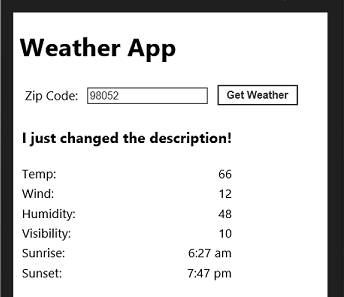
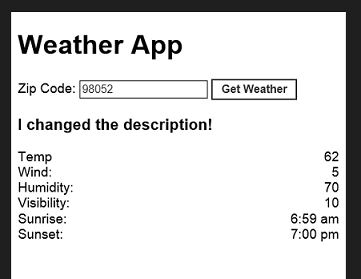
more fixes

diff --git a/getting-started/get-started-first-mobile-app.md b/getting-started/get-started-first-mobile-app.md
@@ -14,9 +14,6 @@
    ms.date="09/10/2015"
    ms.author="normesta"/>
 
-
-# **NOTE:** This article is depreciated. Current articles can be found in the [Articles folder](/articles/).
-
 # Get started with Visual Studio Tools for Apache Cordova
 
 You can use Visual Studio Tools for Apache Cordova to build apps that run on iOS, Android, and Windows devices and share nearly 100% of your code ([learn more](https://www.visualstudio.com/explore/cordova-vs)).
@@ -165,52 +162,73 @@ First, we'll add the [JQuery](https://jquery.com/) NuGet package to your project
 
 **index.html** is the first page that appears when users run your app. So we'll add our HTML to that file. Of course, this the default setting and you can change that at any time in the [configuration designer](#settings).
 
+1. Open the **index.html** file and add this style to the ```<head>``` of the page.
+  ```
+  <style type="text/css">
+      body {
+          font: 1em Sans-Serif;
+      }
+
+      .flex {
+          display: -webkit-box;
+          display: flex;
+      }
+
+          .flex > div:nth-child(2) {
+              -webkit-flex-grow: 1;
+              flex-grow: 1;
+              text-align: right;
+          }
+  </style>
+  ```
 1. Open the **index.html** file and remove this line.
 
-	```html
-	  <p>Hello, your application is ready!</p>
-	```
+   ```html
+  	 <p>Hello, your application is ready!</p>
+   ```
 
-2. Add this HTML to the ```<body>``` of the page to give users a way to search for the weather see the results in a table.
+2. Add this HTML to the ```<body>``` of the page to give users a way to search for the weather see the results.
 
 	```html
-		<h1 id="app-title">Weather App</h1>
-		 <table cellpadding="5" class="appfont">
-		<tr>
-		    <td>Zip Code: </td>
-		    <td><input id="input-box" /></td>
-		    <td><button id="get-weather">Get Weather</button></td>
-		</tr>
-		</table>
-		<table>
-		<tr>
-		    <td colspan="2"><h3 id="description">Get the Weather</h3></td>
-		</tr>
-		<tr>
-		    <td>Temp:</td>
-		    <td align="right"><div id="temp"></div></td>
-		</tr>
-		<tr>
-		    <td>Wind:</td>
-		    <td align="right"><div id="wind"></div></td>
-		</tr>
-		<tr>
-		    <td>Humidity:</td>
-		    <td align="right"><div id="humidity"></div></td>
-		</tr>
-		<tr>
-		    <td>Visibility:</td>
-		    <td align="right"><div id="visibility"></div></td>
-		</tr>
-		<tr>
-		    <td>Sunrise:</td>
-		    <td align="right"><div id="sunrise"></div></td>
-		</tr>
-		<tr>
-		    <td>Sunset:</td>
-		    <td align="right"><div id="sunset"></div></td>
-		</tr>
-		</table>
+    <h1 id="app-title">Weather App</h1>
+
+    <div>
+        <label for="zip-code">Zip Code:</label>
+        <input type="text" id="input-box" />
+        <button id="get-weather">Get Weather</button>
+    </div>
+
+    <h3 id="description">Get the Weather</h3>
+
+    <div class="flex">
+        <div>Temp</div>
+        <div id="temp"></div>
+    </div>
+
+    <div class="flex">
+        <div>Wind:</div>
+        <div id="wind"></div>
+    </div>
+
+    <div class="flex">
+        <div>Humidity:</div>
+        <div id="humidity"></div>
+    </div>
+
+    <div class="flex">
+        <div>Visibility:</div>
+        <div id="visibility"></div>
+    </div>
+
+    <div class="flex">
+        <div>Sunrise:</div>
+        <div id="sunrise"></div>
+    </div>
+
+    <div class="flex">
+        <div>Sunset:</div>
+        <div id="sunset"></div>
+    </div>
 	```
 
 ### Handle a button event
@@ -248,10 +266,10 @@ You'll notice a few things about the ```index.js``` file. First, all the code in
 Enclosed in this function, you'll see an event handler that runs when the Cordova device APIs are fully loaded.  
 
 ```javascript      
-        function onDeviceReady() {
+   function onDeviceReady() {
 
-         // TODO: Cordova has been loaded. Perform any initialization that requires Cordova here.
-        };
+      // TODO: Cordova has been loaded. Perform any initialization that requires Cordova here.
+   };
 ```
 
 So what exactly do we mean by *Cordova device APIs*? These are APIs that you'd use to interact with device capabilities such as the camera or accelerometer. If you want to run any code like this when the app first starts, make sure you add that code or call those functions from inside of this event handler. In fact, later on, we'll do just that.
@@ -329,21 +347,17 @@ Now we'll add the *getWeather* function that we're using to handle button's ``cl
 
 Let's run the app, but this time let's use an emulator.
 
-1. In the platforms list, choose **Windows Phone (Universal)**.
+2. In the list of Android emulators, choose the one of the **VS Emulator 5** to run your app.
 
-    ![Windows Emulators](media/get-started-first-mobile-app/windows-target.png)
+    ![Android Emulator](media/get-started-first-mobile-app/android-emulator.png)
 
-2. In the list of Windows emulators, choose the first one to run your app.
-
-    ![Windows Emulator](media/get-started-first-mobile-app/windows-emulator.png)
-
-3. In the Windows emulator, type a valid United States zip code into the edit box (for example: 98052), and then press the **Get Weather** button.
+3. In the Android emulator, type a valid United States zip code into the edit box (for example: 98052), and then press the **Get Weather** button.
 
     Weather data for that region appears in the controls.
 
-    ![Weather App](media/get-started-first-mobile-app/weather-app.png)
+    ![Weather App](media/get-started-first-mobile-app/weather-app-overview.png)
 
-    What's great here is that this app is completely cross platform. If you have a little extra time, run this app in an Android emulator. You can use an iOS emulator, but that's a little more advanced. At the end of this article, I'll point you to some guidance for doing that.
+    What's great here is that this app is completely cross platform. If you have a little extra time, run this app in a Windows emulator. You can use an iOS emulator, but that's a little more advanced. At the end of this article, I'll point you to some guidance for doing that.
 
 ## <a id="find-fix"></a>Find and fix problems
 
@@ -351,7 +365,15 @@ A big benefit of Visual Studio is its powerful debugger. If you're already famil
 
 ### Breakpoints and conditional breakpoints
 
-1. Run your app. This time, try an Android emulator.
+Run your app. This time, try a Windows emulator.
+
+1. In the platforms list, choose **Windows Phone (Universal)**.
+
+    ![Windows Emulators](media/get-started-first-mobile-app/windows-target.png)
+
+2. In the list of Windows emulators, choose the first one to run your app.
+
+    ![Windows Emulator](media/get-started-first-mobile-app/windows-emulator.png)
 
 2. After your app starts, open the **weather.js** file, and set a *breakpoint* by clicking the margin next to this line:
 
